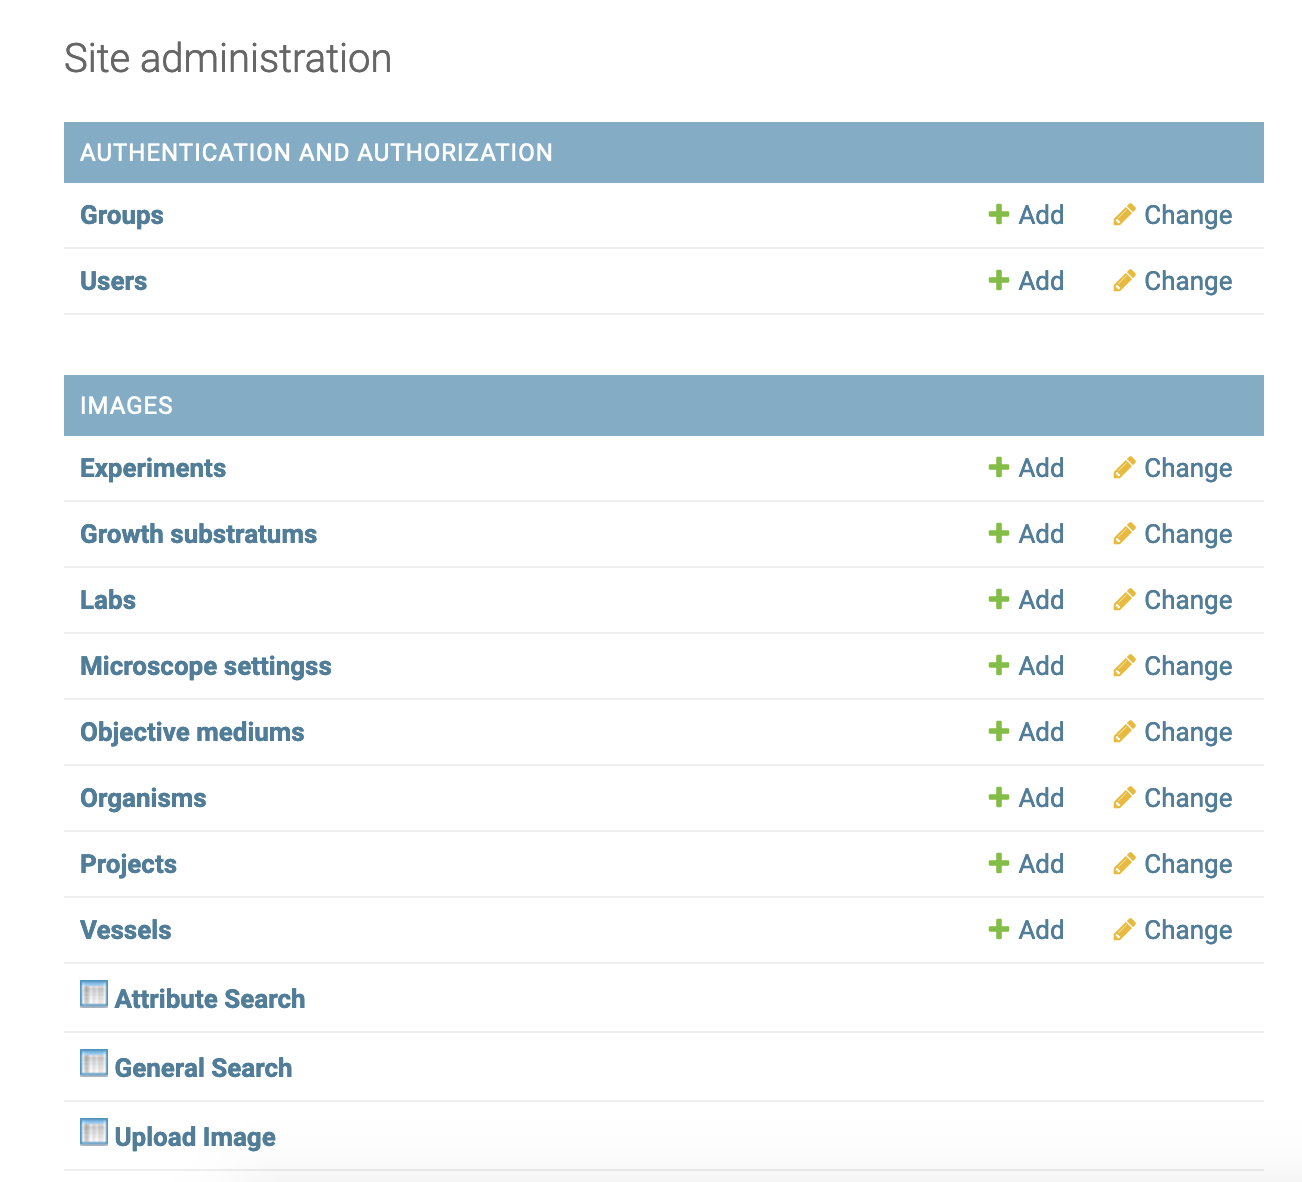
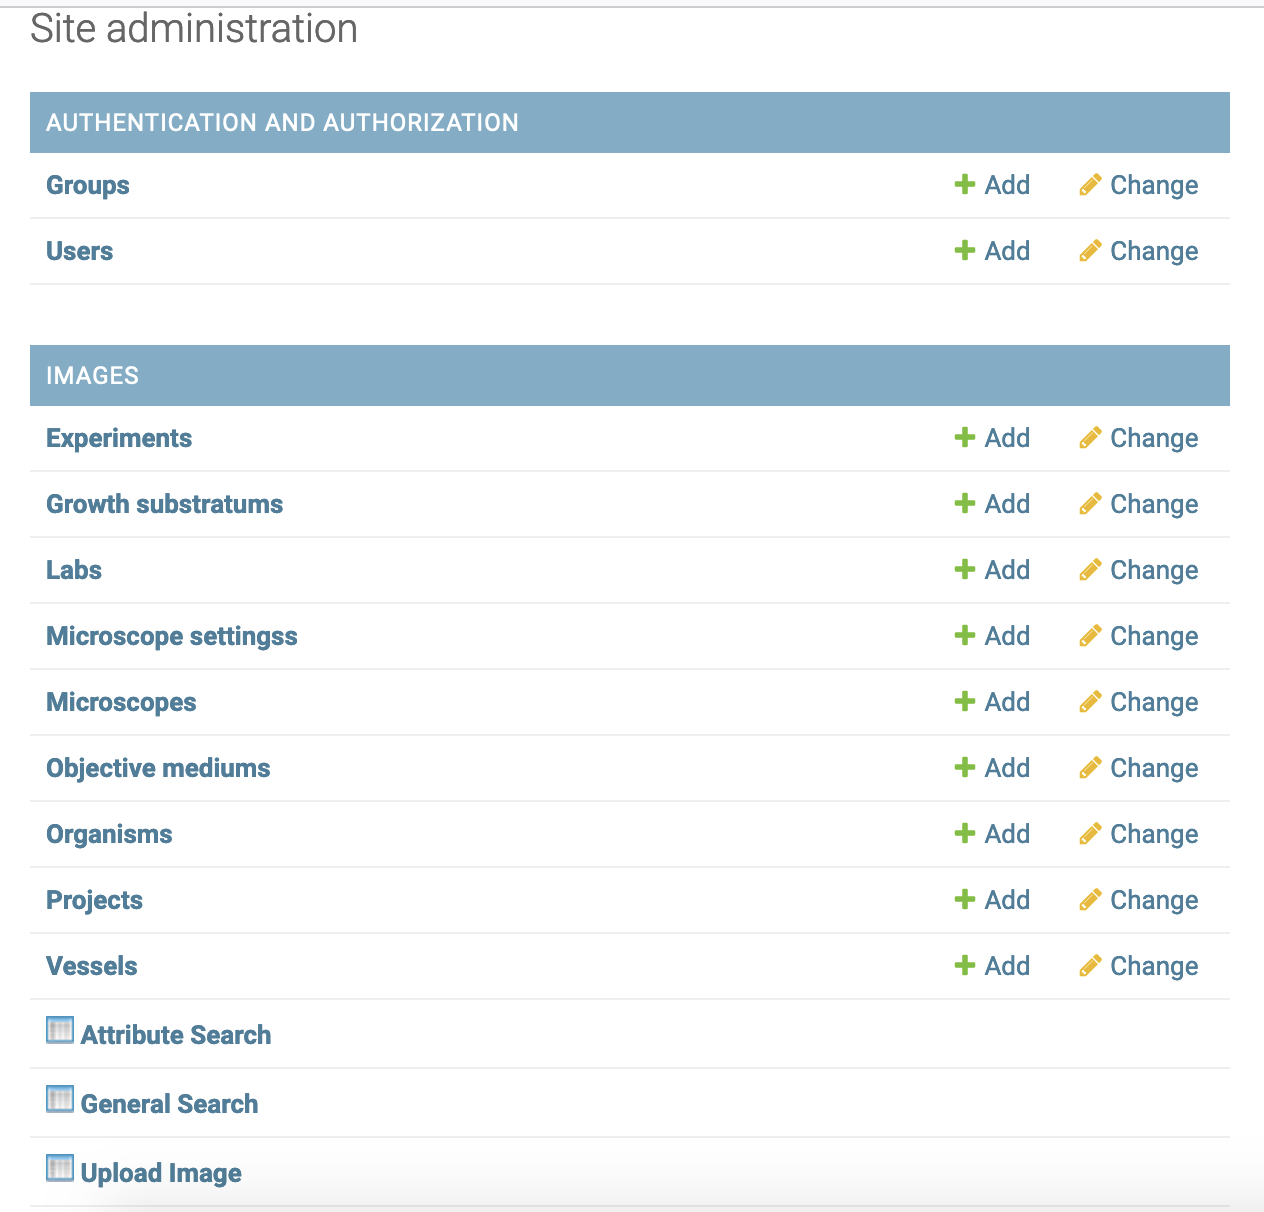
updated admin controls image

diff --git a/README.md b/README.md
@@ -59,14 +59,15 @@ of any errors that occur.
 ![Superuser Created](/readme-img/created-superuser.png)
 12. Log into the websites admin page by adding "/admin" to the end of your
 website URL.
+![Admin Page](/readme-img/admin-controls.png)
 13. Only admin are allowed to create growth substratums, labs, microscope 
 settings, objective mediums, organisms, microscopes, and vessels. These must be 
 created using the admin login of the site. To add a microscope settings, one
-must first create an objective medium and microscope.
+must first create an objective medium and microscope, however, those can be
+created/edited/deleted from within the microscope settings addition.
 It is recommended to add only the organisms and instances that will be used. The
 free tier of Heroku Postgres only offers 10,000 lines.
 
-![Admin Page](/readme-img/admin-controls.png)
 
 
 <!--
